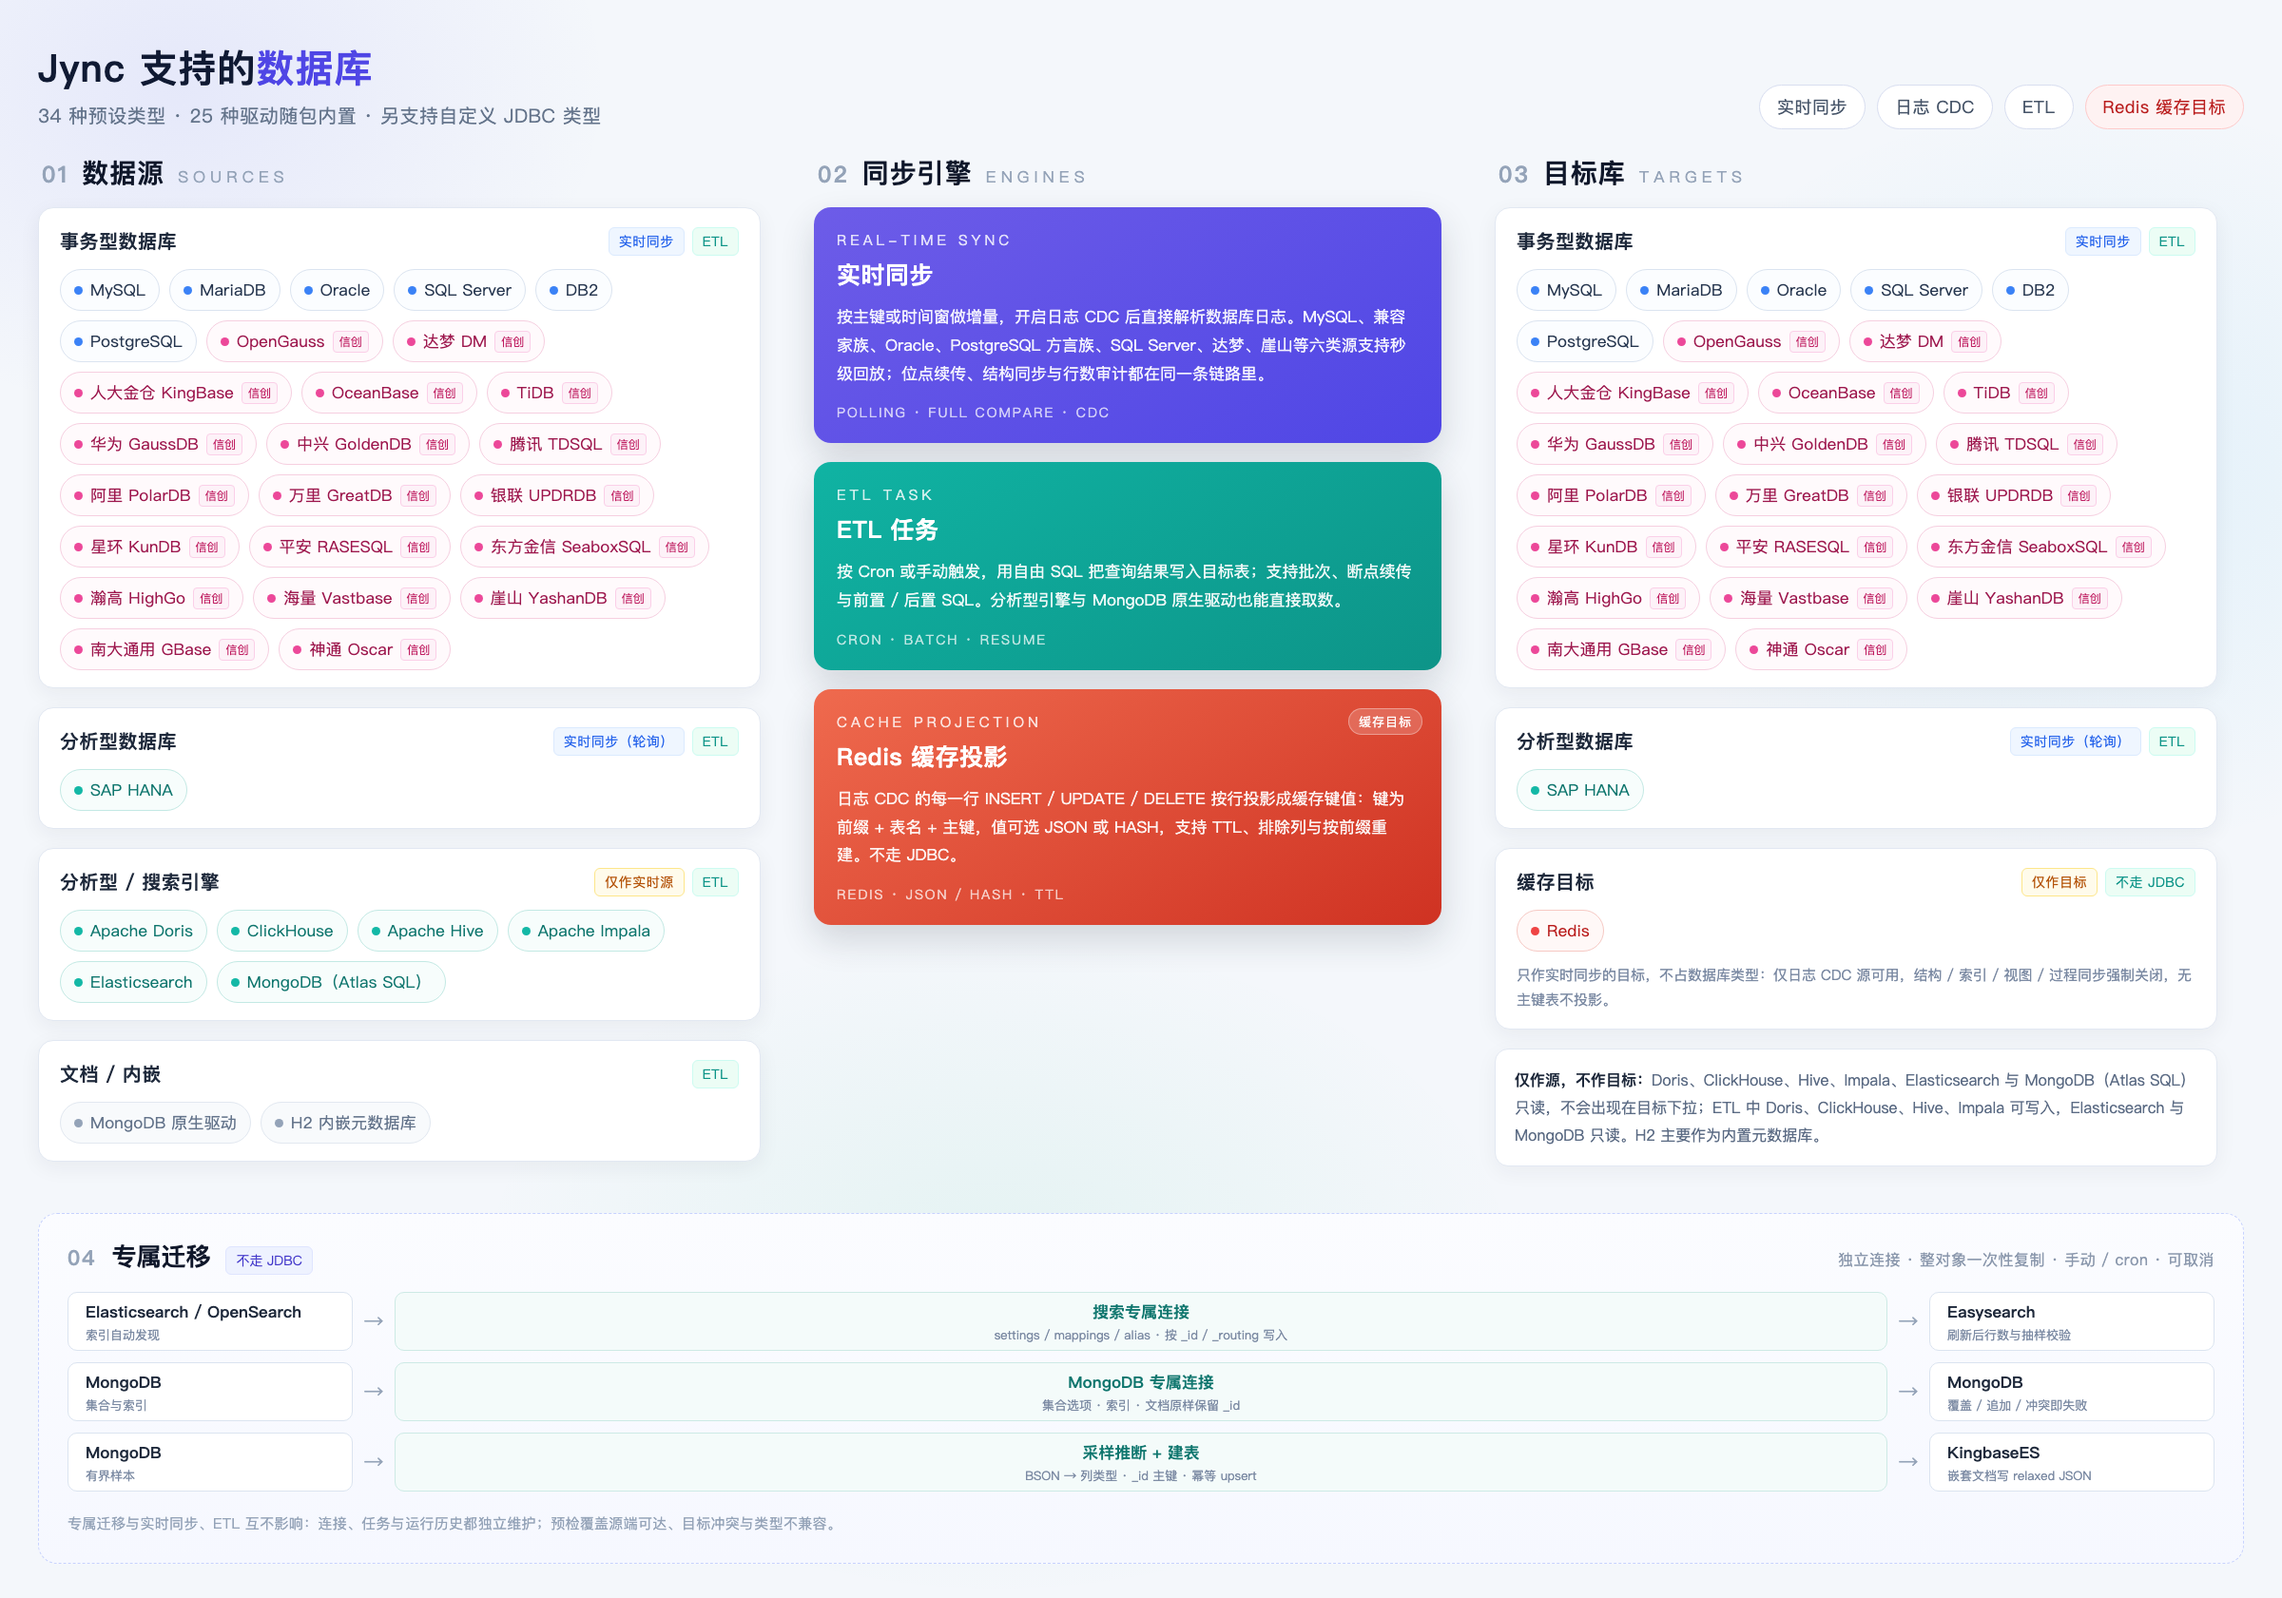
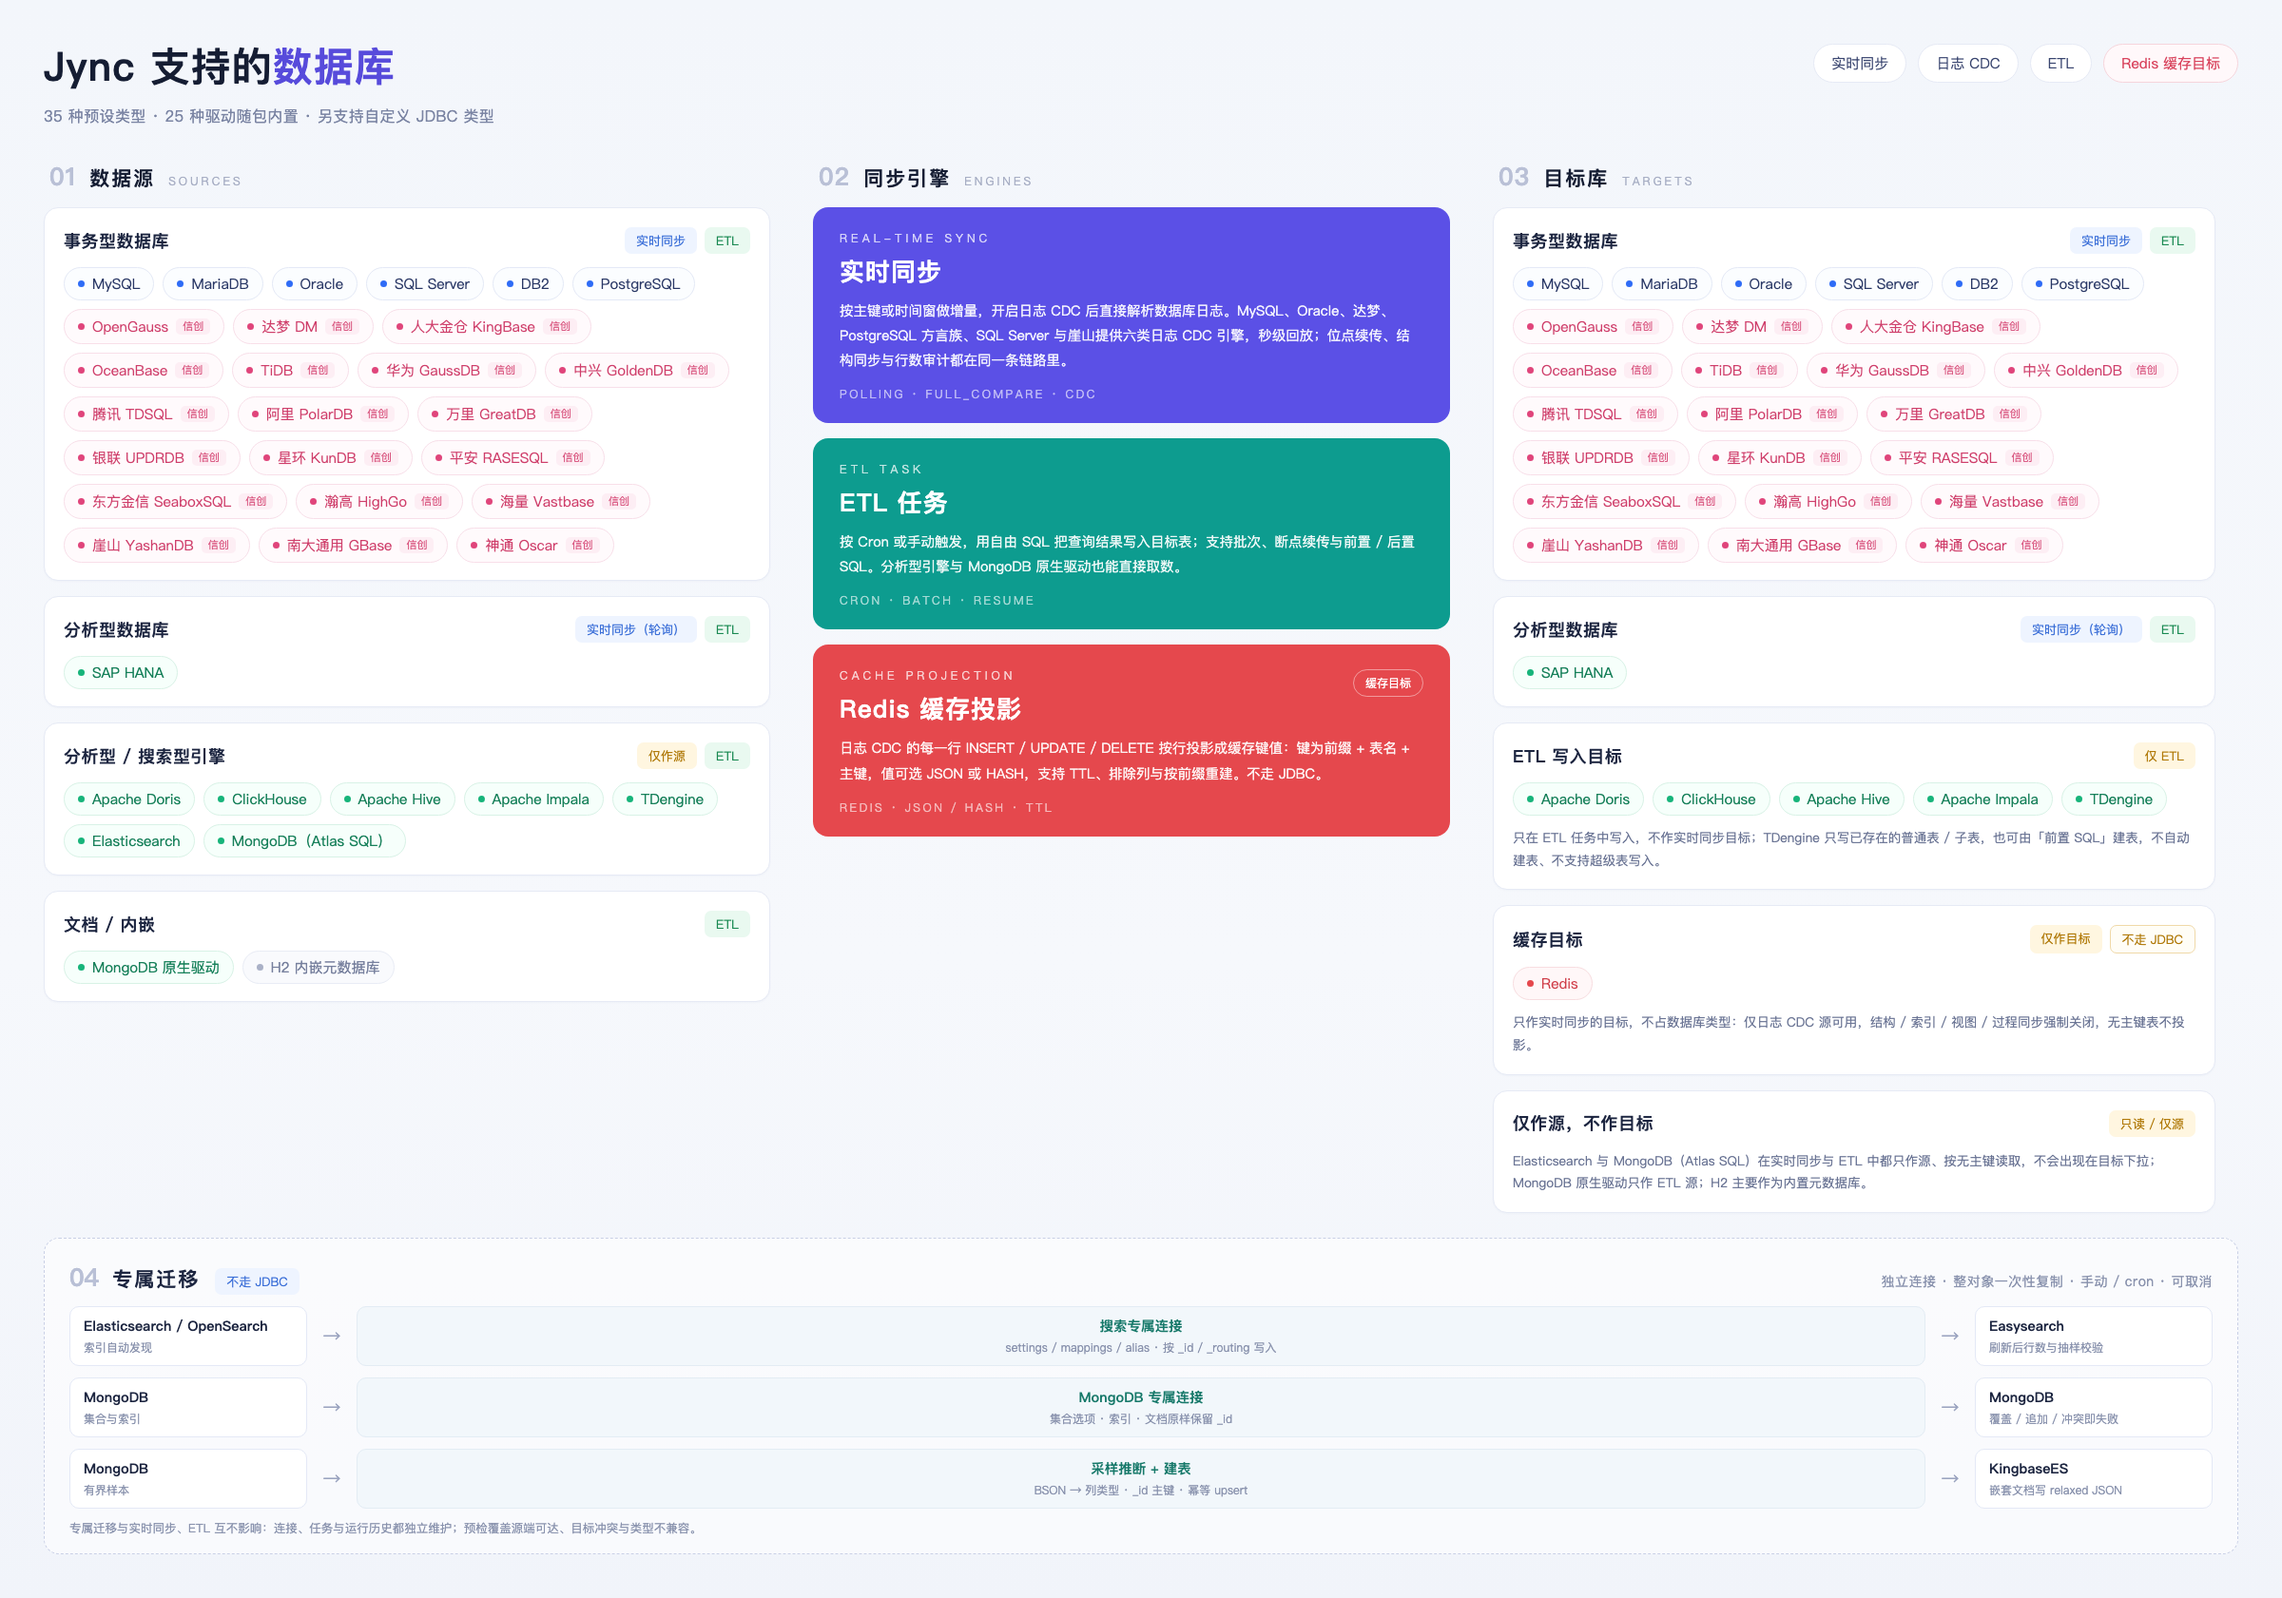
docs: 更新测试数量与数据库能力地图、封面图（35 种）
- README / README_EN 测试数量 6100+ / 6,100+ 改为 6200+ / 6,200+
- jync.webp：v2.4.1、35 种数据库、6200+ 项测试、页脚 35 DB TYPES
- jync_dbmaps：按官网 database.html 口径重绘，副标题 35 种预设类型；
  源端分析型 / 搜索型引擎加入 TDengine；目标端新增「ETL 写入目标
  （仅 ETL）」卡片（Doris / ClickHouse / Hive / Impala / TDengine）；
  修正「仅作源，不作目标」说明，删除与原图自相矛盾的 ETL 写入描述；
  同步替换 PNG 母图

diff --git a/README_EN.md b/README_EN.md
@@ -236,7 +236,7 @@ com.qqmu.jync
 mvn test
 ```
 
-The suite has 6,100+ unit tests and covers dialect and SQL rewriting, full load and resume, CDC prerequisites and position discipline for six engines, Redis projection and dedicated migration, ETL variables and alerting, roles and resource ownership, the AI assistant, security (encrypted storage, viewer POST rejection, CSRF), UI i18n, and the dual-channel upgrade fallback.
+The suite has 6,200+ unit tests and covers dialect and SQL rewriting, full load and resume, CDC prerequisites and position discipline for six engines, Redis projection and dedicated migration, ETL variables and alerting, roles and resource ownership, the AI assistant, security (encrypted storage, viewer POST rejection, CSRF), UI i18n, and the dual-channel upgrade fallback.
 
 Real-database integration tests (`*IT`, excluded from the default suite, require Docker): Oracle 23ai parallel full load with `ROWDEPENDENCIES`; MySQL 8 binlog baseline → streaming, crash rerun, 100k-row consistency and fault injection. Run with `-Dapi.version=1.44` (Docker Engine ≥ 29).
 

diff --git a/README.md b/README.md
@@ -237,7 +237,7 @@ com.qqmu.jync
 mvn test
 ```
 
-6100+ 单元测试，覆盖方言与 SQL 改写、全量与续传、六类 CDC 前提与位点纪律、Redis 投影与专属迁移、ETL 变量与告警、角色与资源归属、AI 助手、安全（加密存储、访客 POST 全拒、CSRF）、页面国际化，以及升级双通道兜底。
+6200+ 单元测试，覆盖方言与 SQL 改写、全量与续传、六类 CDC 前提与位点纪律、Redis 投影与专属迁移、ETL 变量与告警、角色与资源归属、AI 助手、安全（加密存储、访客 POST 全拒、CSRF）、页面国际化，以及升级双通道兜底。
 
 真实库集成测试（`*IT`，默认不进套件，需 Docker）：Oracle 23ai 并行全量与 `ROWDEPENDENCIES`；MySQL 8 binlog 基线 → 流式、崩溃重跑、十万行一致与故障注入。运行加 `-Dapi.version=1.44`（Docker Engine ≥ 29）。
 
